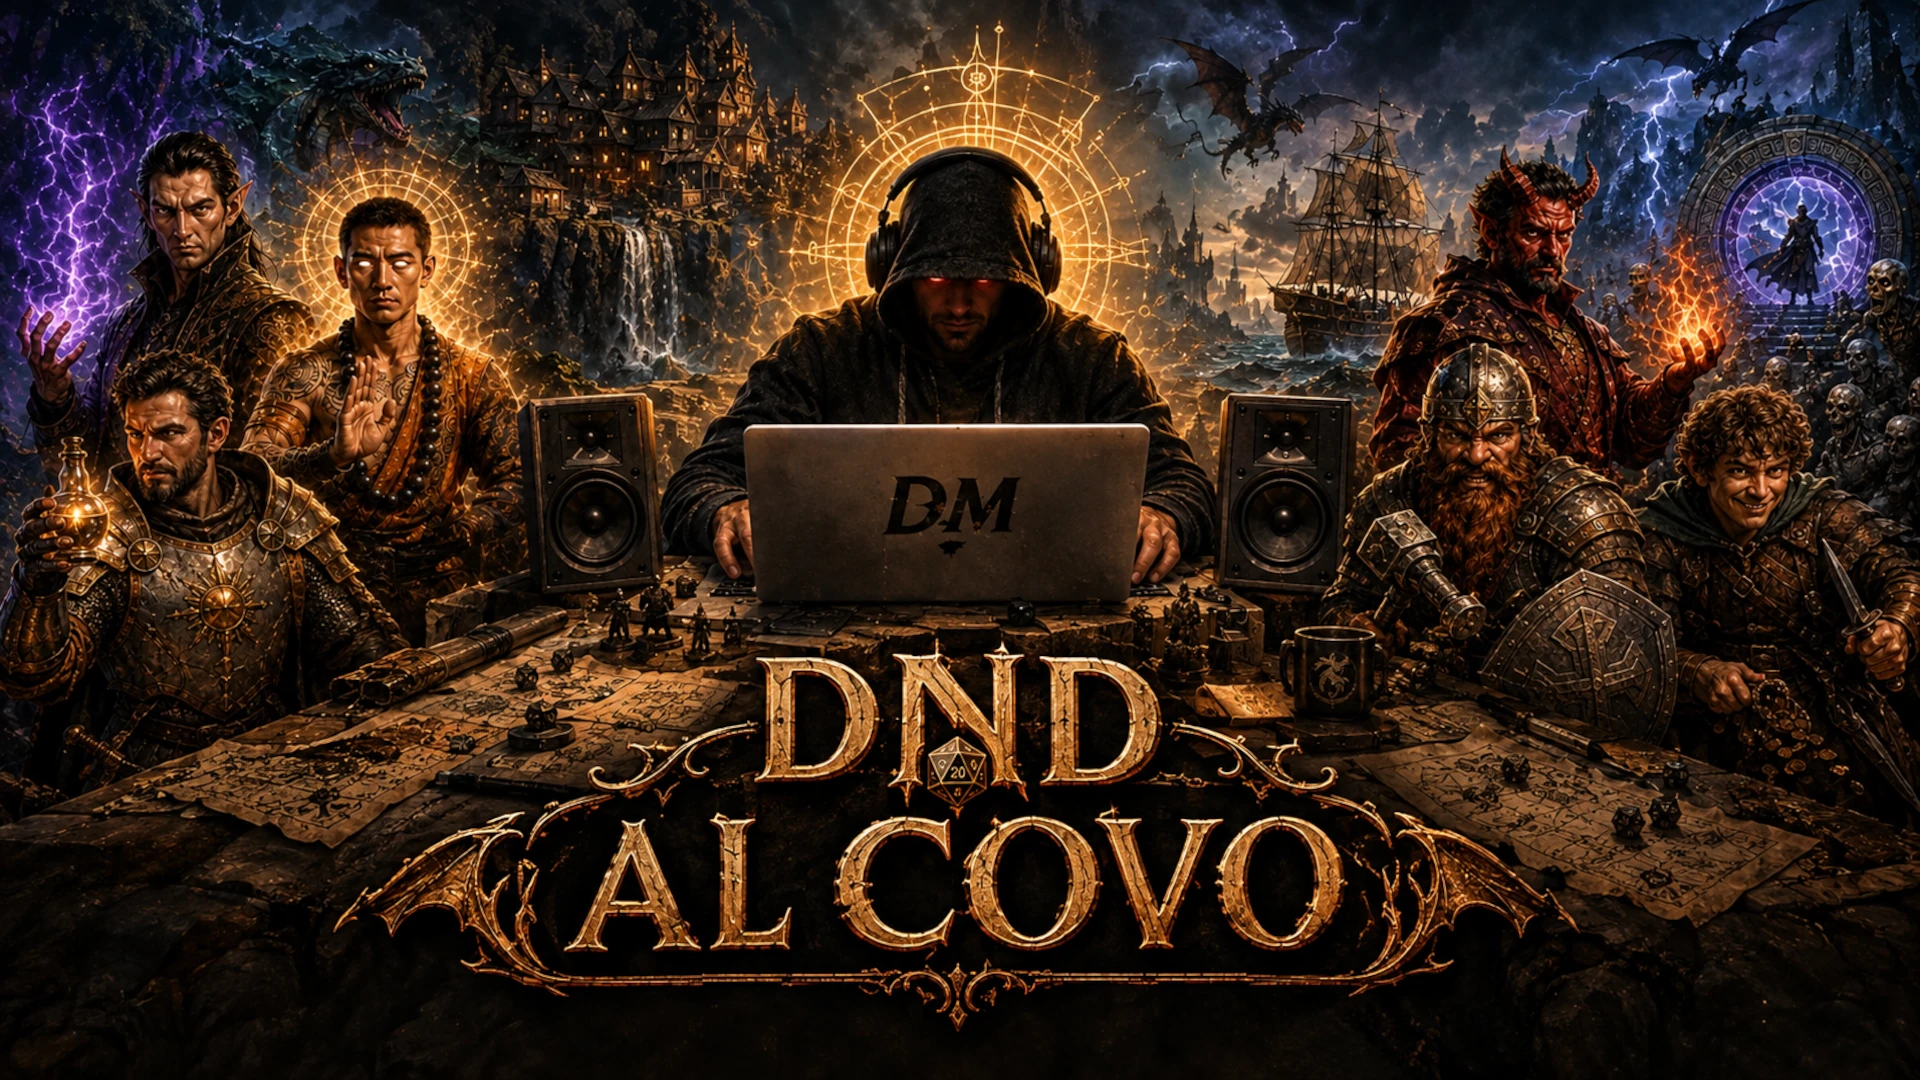
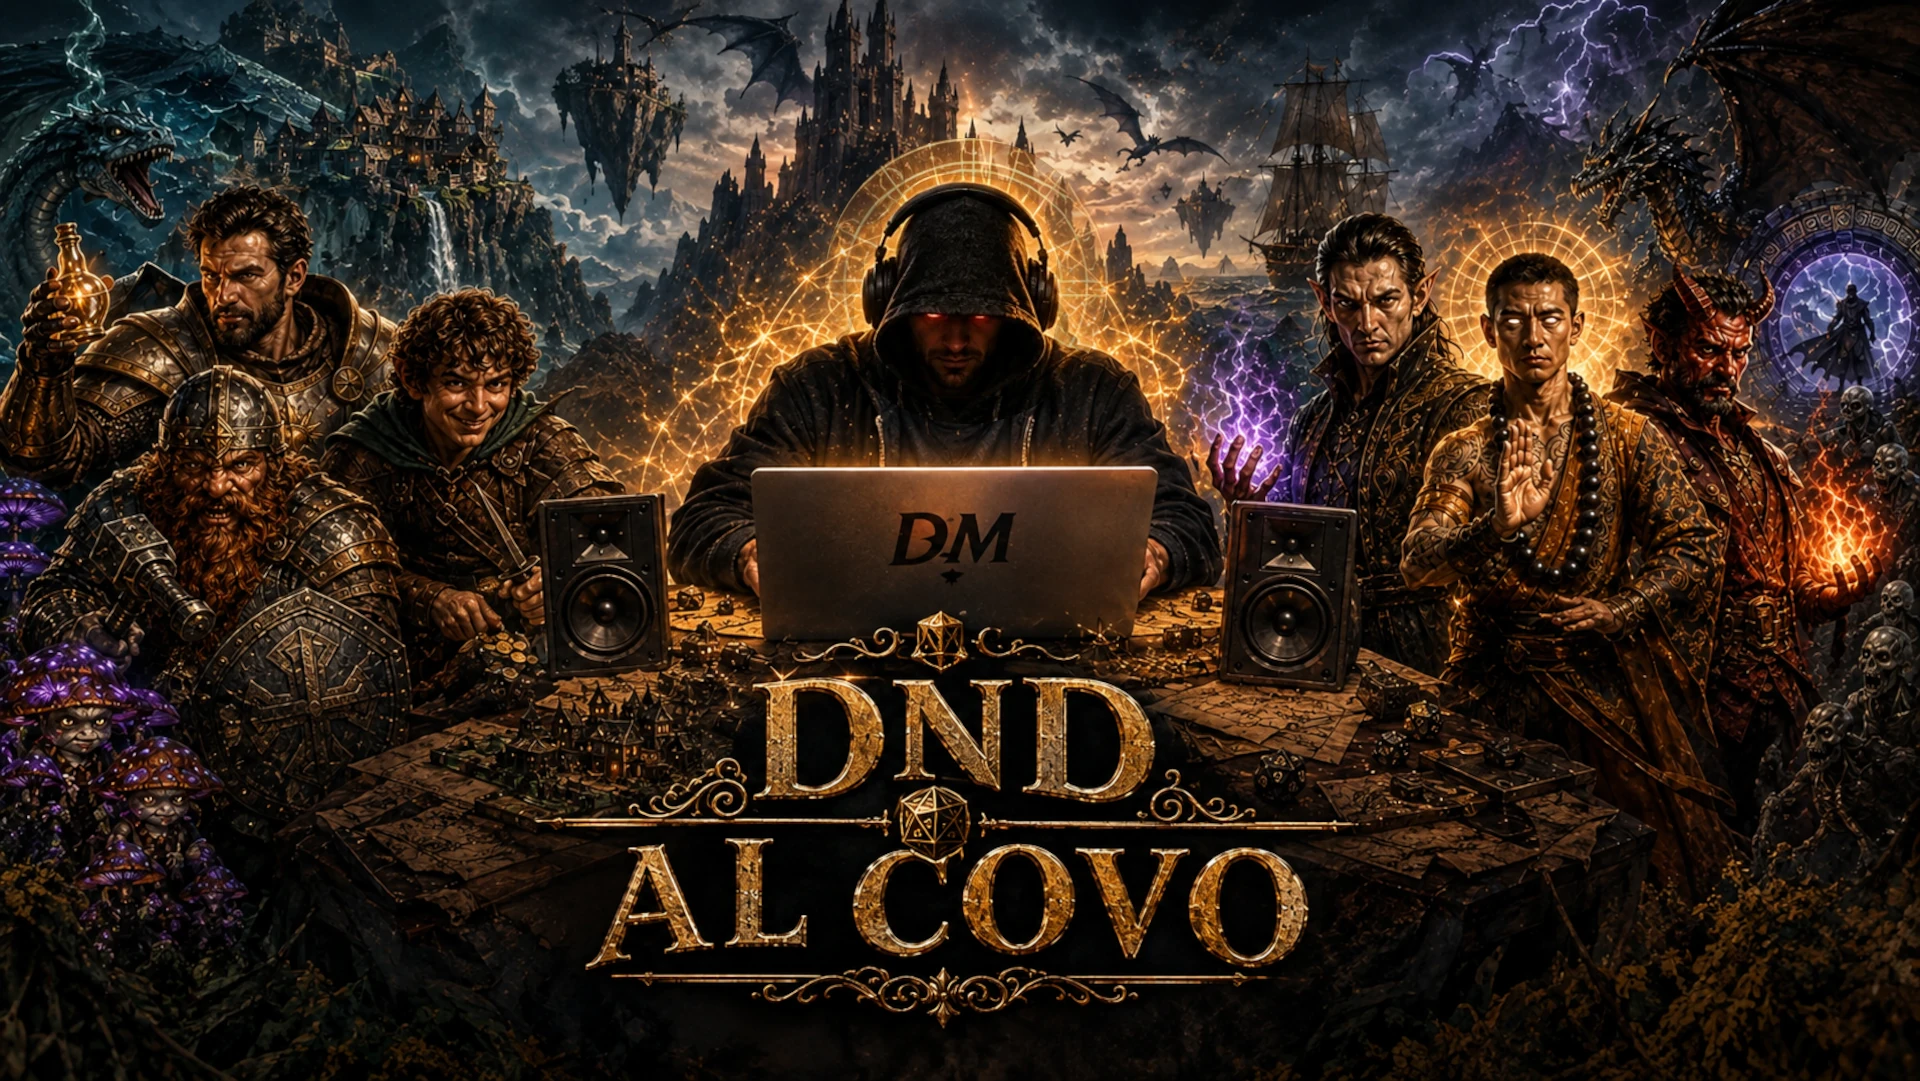
new home cover, magic items updated

diff --git a/docs/index.md b/docs/index.md
@@ -23,6 +23,8 @@ Anche quando vi colpirà a morte con un colpo critico.
 - [**Stagione 2**](sessioni/stagione-02/index.md)
 - [**Stagione 3**](sessioni/stagione-03/index.md)
 
+### Oggetti magici per party
+- [**Sangtiennoi, Vaelith, Will**](oggetti-magici/svw.md)
 
 ### Regole custom
 - [**Gioco**](regole/regole-custom-gioco.md)
